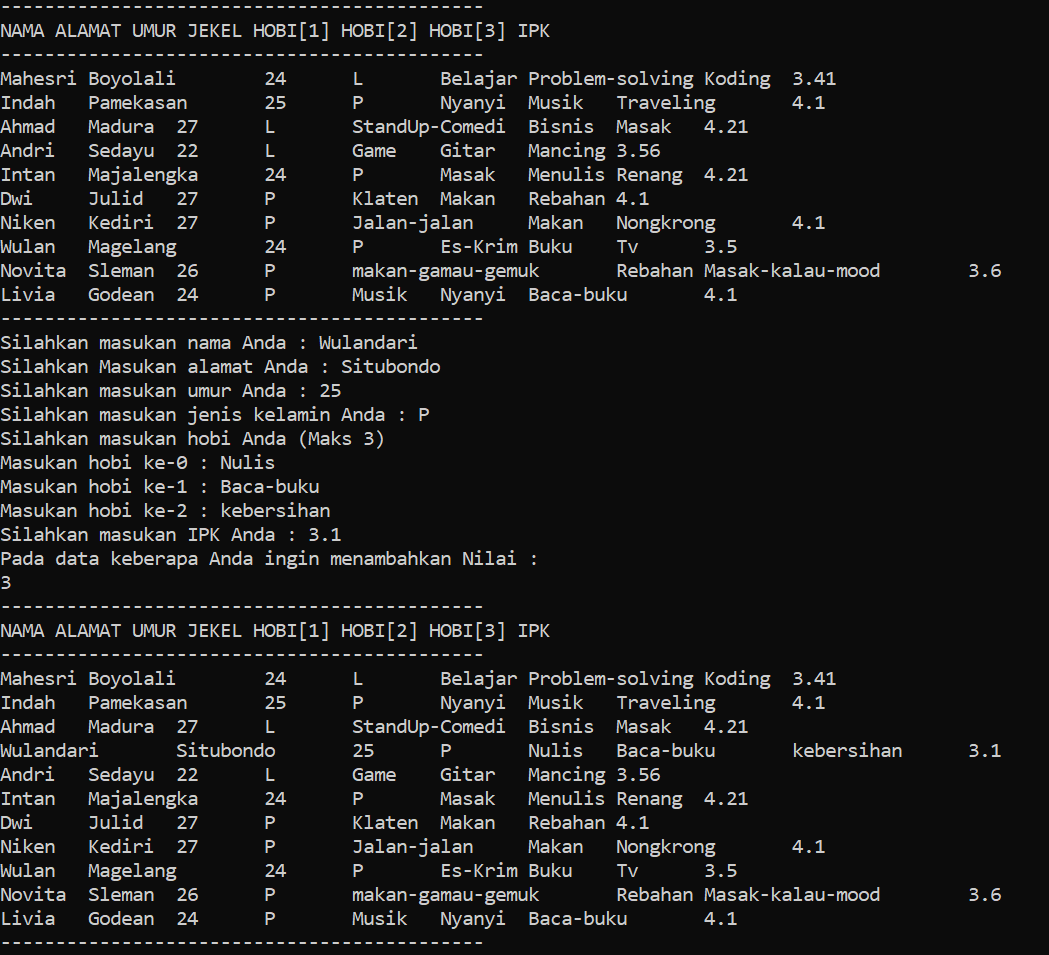
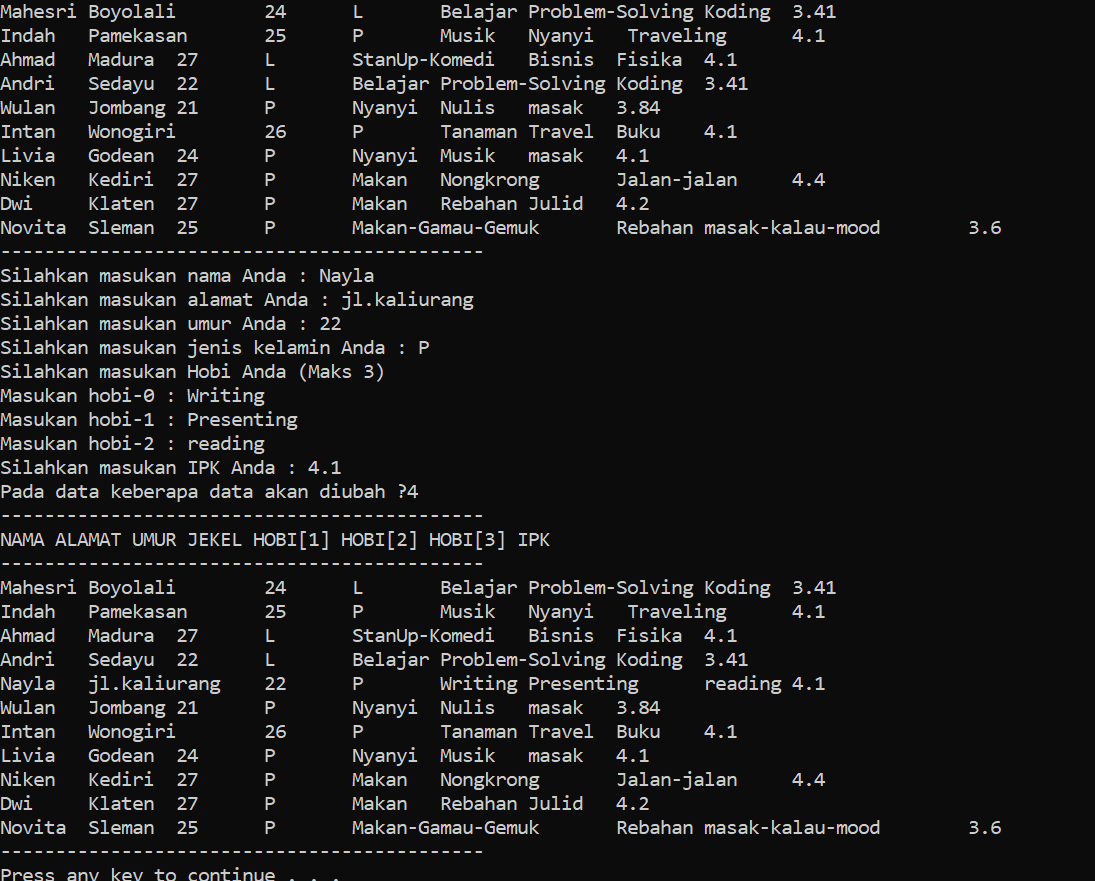
gausah lebay

diff --git a/resource/src/modul3/src/masModProgram.java b/resource/src/modul3/src/masModProgram.java
@@ -5,7 +5,7 @@ class formatBiodata {
 	String alamat;
 	int umur;
 	char jekel;
-	String hobi[] new String[3];
+	String hobi[] = new String[3];
 	float ipk;
 }
 
@@ -14,71 +14,159 @@ public class masModProgram{
 private static int N = 10;
 private static Scanner in = new Scanner(System.in);
 
-public static void inisialisasidata(formatBiodata biodataMahasiswa[]){
+public static void inisialisasiData(formatBiodata biodataMahasiswa[]){
 
-	formatBiodata biodataMahasiswa[] = new formatBiodata();
+
 
 	biodataMahasiswa[0] = new formatBiodata();
 	biodataMahasiswa[0].nama = "Mahesri";
 	biodataMahasiswa[0].alamat = "Boyolali";
 	biodataMahasiswa[0].umur = 24;
-	biodataMahasiswa[0].jekel = "L";
+	biodataMahasiswa[0].jekel = 'L';
 	biodataMahasiswa[0].hobi[0] = "Belajar";
 	biodataMahasiswa[0].hobi[1] = "Problem-Solving";
 	biodataMahasiswa[0].hobi[2] = "Koding";
-	biodataMahasiswa[0].ipk = 3.41;
+	biodataMahasiswa[0].ipk = (float)3.41;
 
 	biodataMahasiswa[1] = new formatBiodata();
 	biodataMahasiswa[1].nama = "Indah";
 	biodataMahasiswa[1].alamat = "Pamekasan";
 	biodataMahasiswa[1].umur = 25;
-	biodataMahasiswa[1].jekel = "P";
+	biodataMahasiswa[1].jekel = 'P';
 	biodataMahasiswa[1].hobi[0] = "Musik";
 	biodataMahasiswa[1].hobi[1] = "Nyanyi";
-	biodataMahasiswa[1].hobi[2] = "Traveling";
-	biodataMahasiswa[1].ipk = 4.1;
+	biodataMahasiswa[1].hobi[2] = " Traveling";
+	biodataMahasiswa[1].ipk = (float)4.1;
 
 	biodataMahasiswa[2] = new formatBiodata();
 	biodataMahasiswa[2].nama = "Ahmad";
 	biodataMahasiswa[2].alamat = "Madura";
 	biodataMahasiswa[2].umur = 27;
-	biodataMahasiswa[2].jekel = "L";
+	biodataMahasiswa[2].jekel = 'L';
 	biodataMahasiswa[2].hobi[0] = "StanUp-Komedi";
 	biodataMahasiswa[2].hobi[1] = "Bisnis";
 	biodataMahasiswa[2].hobi[2] = "Fisika";
-	biodataMahasiswa[2].ipk = 4.1;
+	biodataMahasiswa[2].ipk = (float)4.1;
 
 	biodataMahasiswa[3] = new formatBiodata();
 	biodataMahasiswa[3].nama = "Andri";
 	biodataMahasiswa[3].alamat = "Sedayu";
 	biodataMahasiswa[3].umur = 22;
-	biodataMahasiswa[3].jekel = "L";
+	biodataMahasiswa[3].jekel = 'L';
 	biodataMahasiswa[3].hobi[0] = "Belajar";
 	biodataMahasiswa[3].hobi[1] = "Problem-Solving";
 	biodataMahasiswa[3].hobi[2] = "Koding";
-	biodataMahasiswa[3].ipk = 3.41;
+	biodataMahasiswa[3].ipk = (float)3.41;
 
 
 	biodataMahasiswa[4] = new formatBiodata();
 	biodataMahasiswa[4].nama = "Wulan";
 	biodataMahasiswa[4].alamat = "Jombang";
 	biodataMahasiswa[4].umur = 21;
-	biodataMahasiswa[4].jekel = "P";
+	biodataMahasiswa[4].jekel = 'P';
 	biodataMahasiswa[4].hobi[0] = "Nyanyi";
 	biodataMahasiswa[4].hobi[1] = "Nulis";
 	biodataMahasiswa[4].hobi[2] = "masak";
-	biodataMahasiswa[4].ipk = 3.84;
+	biodataMahasiswa[4].ipk = (float) 3.84;
 
 	biodataMahasiswa[5] = new formatBiodata();
 	biodataMahasiswa[5].nama = "Wulan";
 	biodataMahasiswa[5].alamat = "Jombang";
 	biodataMahasiswa[5].umur = 21;
-	biodataMahasiswa[5].jekel = "P";
+	biodataMahasiswa[5].jekel = 'P';
 	biodataMahasiswa[5].hobi[0] = "Nyanyi";
 	biodataMahasiswa[5].hobi[1] = "Nulis";
 	biodataMahasiswa[5].hobi[2] = "masak";
-	biodataMahasiswa[5].ipk = 3.84;
+	biodataMahasiswa[5].ipk = (float) 3.84;
+
+	biodataMahasiswa[5] = new formatBiodata();
+	biodataMahasiswa[5].nama = "Intan";
+	biodataMahasiswa[5].alamat = "Wonogiri";
+	biodataMahasiswa[5].umur = 26;
+	biodataMahasiswa[5].jekel = 'P';
+	biodataMahasiswa[5].hobi[0] = "Tanaman";
+	biodataMahasiswa[5].hobi[1] = "Travel";
+	biodataMahasiswa[5].hobi[2] = "Buku";
+	biodataMahasiswa[5].ipk = (float)4.1;
+
+	biodataMahasiswa[6] = new formatBiodata();
+	biodataMahasiswa[6].nama = "Livia";
+	biodataMahasiswa[6].alamat = "Godean";
+	biodataMahasiswa[6].umur = 24;
+	biodataMahasiswa[6].jekel = 'P';
+	biodataMahasiswa[6].hobi[0] = "Nyanyi";
+	biodataMahasiswa[6].hobi[1] = "Musik";
+	biodataMahasiswa[6].hobi[2] = "masak";
+	biodataMahasiswa[6].ipk = (float)4.1;
+
+	biodataMahasiswa[7] = new formatBiodata();
+	biodataMahasiswa[7].nama = "Niken";
+	biodataMahasiswa[7].alamat = "Kediri";
+	biodataMahasiswa[7].umur = 27;
+	biodataMahasiswa[7].jekel = 'P';
+	biodataMahasiswa[7].hobi[0] = "Makan";
+	biodataMahasiswa[7].hobi[1] = "Nongkrong";
+	biodataMahasiswa[7].hobi[2] = "Jalan-jalan";
+	biodataMahasiswa[7].ipk = (float)4.4;
+
+	biodataMahasiswa[8] = new formatBiodata();
+	biodataMahasiswa[8].nama = "Dwi";
+	biodataMahasiswa[8].alamat = "Klaten";
+	biodataMahasiswa[8].umur = 27;
+	biodataMahasiswa[8].jekel = 'P';
+	biodataMahasiswa[8].hobi[0] = "Makan";
+	biodataMahasiswa[8].hobi[1] = "Rebahan";
+	biodataMahasiswa[8].hobi[2] = "Julid";
+	biodataMahasiswa[8].ipk = (float)4.2;
+
+	biodataMahasiswa[9] = new formatBiodata();
+	biodataMahasiswa[9].nama = "Novita";
+	biodataMahasiswa[9].alamat = "Sleman";
+	biodataMahasiswa[9].umur = 25;
+	biodataMahasiswa[9].jekel = 'P';
+	biodataMahasiswa[9].hobi[0] = "Makan-Gamau-Gemuk";
+	biodataMahasiswa[9].hobi[1] = "Rebahan";
+	biodataMahasiswa[9].hobi[2] = "masak-kalau-mood";
+	biodataMahasiswa[9].ipk = (float)3.6;
 	}
+
+	public static void tambahDataDiTengah(formatBiodata biodataMahasiswa[]){
+
+	formatBiodata biodataMahasiswaBaru = new formatBiodata();
+	int bacaTombol = 0, T;
+
+	System.out.print("Silahkan masukan nama Anda : ");
+	biodataMahasiswaBaru.nama = in.next();
+	System.out.print("Silahkan masukan alamat Anda : ");
+	biodataMahasiswaBaru.alamat = in.next();
+	System.out.print("Silahkan masukan umur Anda : ");
+	biodataMahasiswaBaru.umur = in.nextInt();
+	System.out.print("Silahkan masukan jenis kelamin Anda : ");
+	try{
+	bacaTombol = System.in.read();
+		}catch(java.io.IOException e){}
+		biodataMahasiswaBaru.jekel = (char)bacaTombol;
+	System.out.println("Silahkan masukan Hobi Anda (Maks 3)");
+	System.out.print("Masukan hobi-0 : ");
+	biodataMahasiswaBaru.hobi[0] = in.next();
+	System.out.print("Masukan hobi-1 : ");
+	biodataMahasiswaBaru.hobi[1] = in.next();
+	System.out.print("Masukan hobi-2 : ");
+	biodataMahasiswaBaru.hobi[2] = in.next();
+	System.out.print("Silahkan masukan IPK Anda : ");
+	biodataMahasiswaBaru.ipk = in.nextFloat();
+
+	System.out.print("Pada data keberapa data akan diubah ?");
+	T = in.nextInt();
+
+
+	for(int i = N-1 ; i >= T;i--){
+	biodataMahasiswa[i+1] = biodataMahasiswa[i];
+	}
+
+	biodataMahasiswa[T] = biodataMahasiswaBaru;
+	N++;
+		}
 
 public static void tampilkanData(formatBiodata biodataMahasiswa[]) {
 
@@ -99,6 +187,15 @@ public static void tampilkanData(formatBiodata biodataMahasiswa[]) {
     }
 
 public static void main(String[]args){
+
+formatBiodata biodataMahasiswa[] = new formatBiodata[N+1];
+
+inisialisasiData(biodataMahasiswa);
+tampilkanData(biodataMahasiswa);
+tambahDataDiTengah(biodataMahasiswa);
+tampilkanData(biodataMahasiswa);
+
+
 
 
 	}
